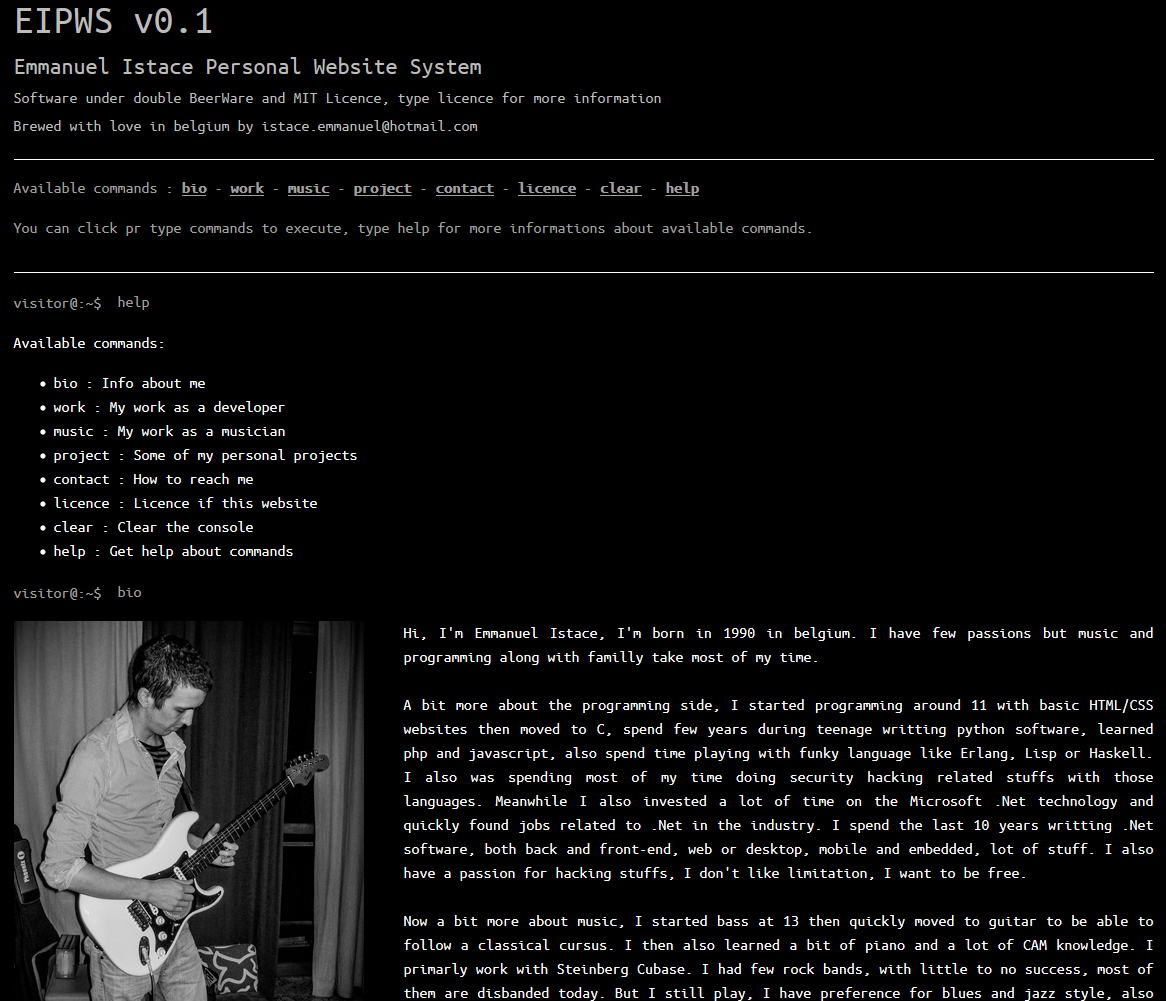
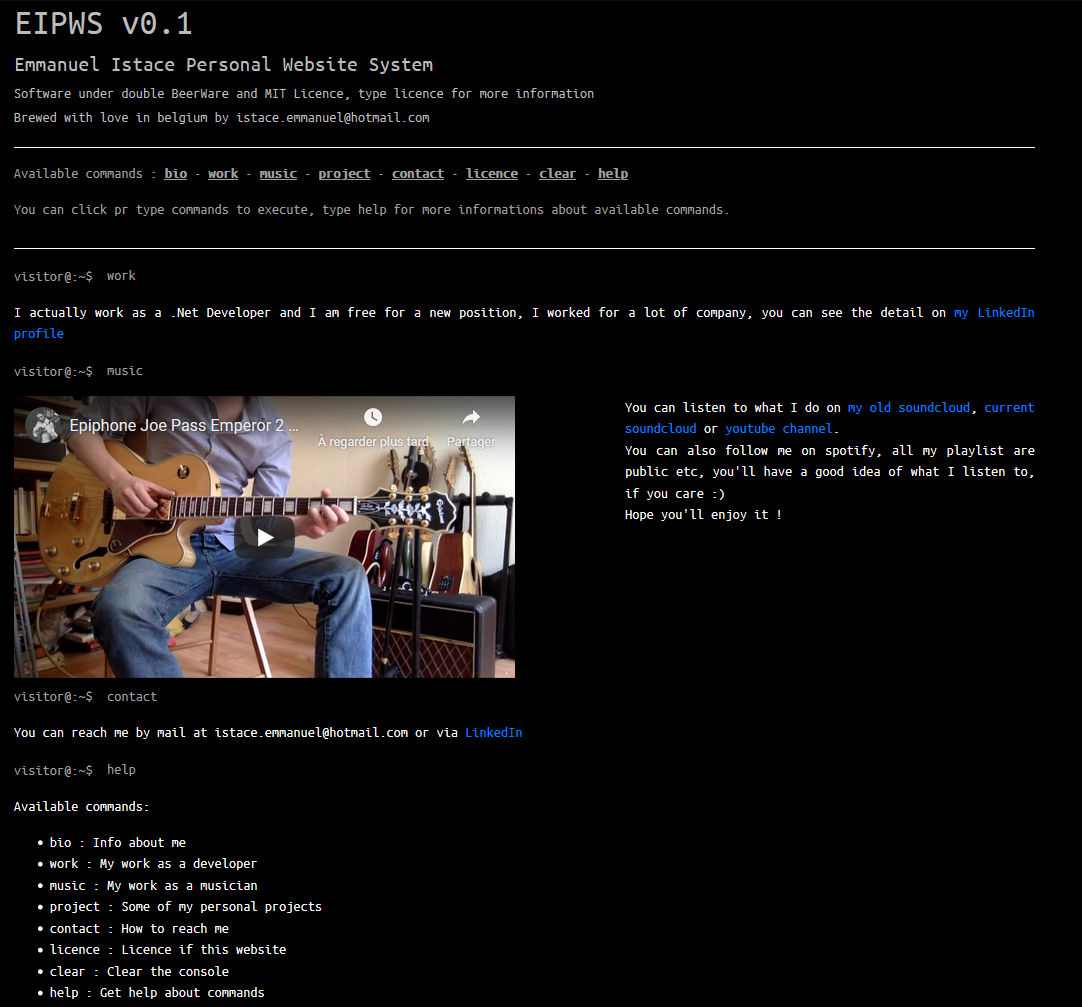
update

diff --git a/src/app/bio/bio.component.html b/src/app/bio/bio.component.html
@@ -4,8 +4,6 @@
   </div>
   <div class="col-8">
     <p>
-      Hi, I'm Emmanuel Istace, I'm born in 1990 in belgium. I have few passions but music and programming along with familly
-      take most of my time. <br />
       <br />
       A bit more about the programming side, I started programming around 11 with basic HTML/CSS websites
       then moved to C, spend few years during teenage writting python software, learned php and javascript, also spend time
